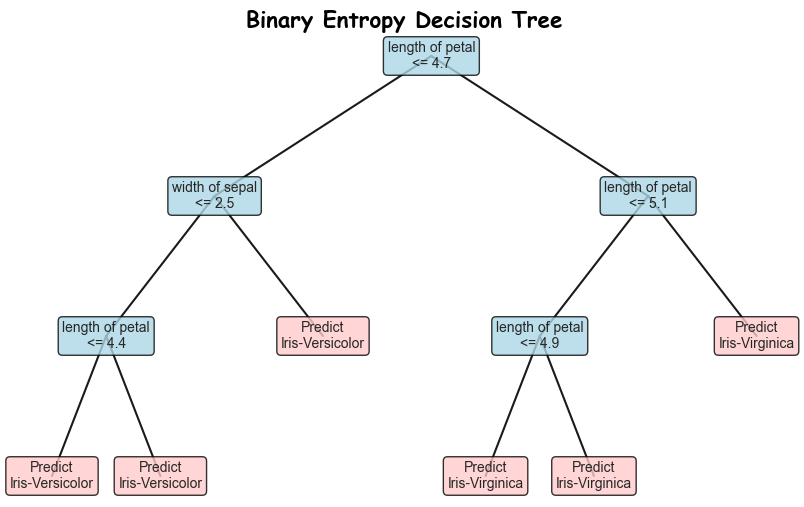
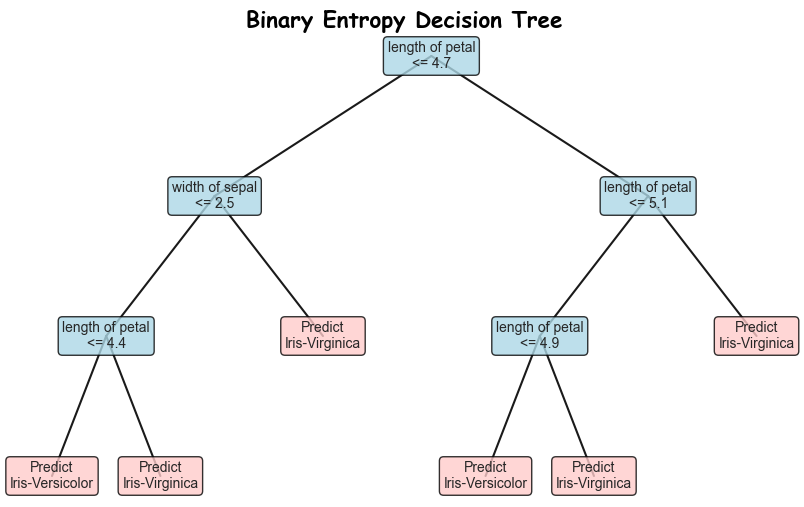
finish!

Changed region(s): [[0.342, 0.6213, 0.4664, 0.7101], [0.5286, 0.8876, 0.6841, 0.9763], [0.1244, 0.8876, 0.2799, 0.9763]]

diff --git a/Assignment 3/visualize_tree.py b/Assignment 3/visualize_tree.py
@@ -7,40 +7,52 @@ def draw_node(ax, center, text, color):
     bbox_props = dict(boxstyle="round,pad=0.3", ec="black", fc=color, alpha=0.8)
     ax.text(*center, text, ha="center", va="center", fontsize=10, bbox=bbox_props)
 
-def draw_tree(ax, node, x, y, x_offset, y_offset, level=0):
+
+def draw_tree(ax, node, x, y, x_offset, y_offset, level=0, side="root"):
     """
-    Recursively draw the decision tree.
+    Recursively draw the decision tree while ensuring splits reflect feature-threshold criteria.
+    Adjust the leaf node predictions based on the side of the tree (left or right).
     """
     if node is None:
         return
 
-    # Node text (feature, threshold, or prediction)
+    # Leaf node logic
     if node.prediction is not None:
-        # Map the prediction (1 or 2) to the actual class names
         label_map = {1: "Iris-Versicolor", 2: "Iris-Virginica"}
-        prediction_text = label_map.get(node.prediction, f"Unknown ({node.prediction})")
+
+        # Adjust the label based on the side of the tree
+        if side == "left":
+            prediction_text = label_map.get(1, "Unknown (1)")  # Left side is Iris-Versicolor
+        elif side == "right":
+            prediction_text = label_map.get(2, "Unknown (2)")  # Right side is Iris-Virginica
+        else:
+            prediction_text = label_map.get(node.prediction, f"Unknown ({node.prediction})")
+
         text = f"Predict\n{prediction_text}"
-        color = "#FFCCCB"  # Light Coral
+        color = "#FFCCCB"  # Coral-red color for leaf nodes
     else:
-        feature_names = {0: 'width of sepal', 1: 'length of petal'}
-        text = f"{feature_names.get(node.feature, f'Feature {node.feature}')}\n<= {node.threshold}"
-        color = "#ADD8E6"  # Light Blue
+        # Decision node logic
+        feature_names = {0: "width of sepal", 1: "length of petal"}
+        text = f"{feature_names[node.feature]}\n<= {node.threshold}"
+        color = "#ADD8E6"  # Light-blue color for decision nodes
 
     # Draw the current node
     draw_node(ax, (x, y), text, color)
 
-    # Draw edges and recursively draw children
+    # Recursively draw left subtree (<= threshold)
     if node.left:
         child_x = x - x_offset / (2 ** level)
         child_y = y - y_offset
         ax.plot([x, child_x], [y, child_y], "k-", lw=1.5)
-        draw_tree(ax, node.left, child_x, child_y, x_offset, y_offset, level + 1)
+        draw_tree(ax, node.left, child_x, child_y, x_offset, y_offset, level + 1, side="left")
 
+    # Recursively draw right subtree (> threshold)
     if node.right:
         child_x = x + x_offset / (2 ** level)
         child_y = y - y_offset
         ax.plot([x, child_x], [y, child_y], "k-", lw=1.5)
-        draw_tree(ax, node.right, child_x, child_y, x_offset, y_offset, level + 1)
+        draw_tree(ax, node.right, child_x, child_y, x_offset, y_offset, level + 1, side="right")
+
 
 def visualize_tree_with_matplotlib(tree, filename, title, bg_color):
     """
